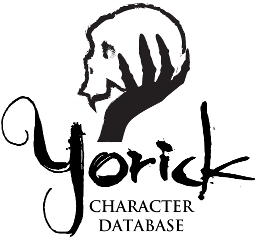
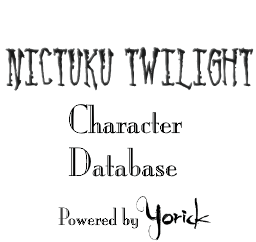
Switch a bunch of references over to Niktuku Twilight

Changed region(s): [[0.0, 0.0, 1.0, 1.0], [0.1562, 0.781, 0.2188, 0.9256]]

diff --git a/public/index.html b/public/index.html
@@ -2,9 +2,9 @@
 <html class="no-js ui-mobile-rendering" lang="en">
 <head>
     <title>Yorick</title>
-    <meta name="description" content="A Character Database for Underground Theater">
-    <meta property="og:title" content="Yorick">
-    <meta property="og:image" content="https://patron.undergroundtheater.org/yorick_max.png">
+    <meta name="description" content="A Character Database for Niktuku Twilight">
+    <meta property="og:title" content="Niktuku Twilight">
+    <meta property="og:image" content="yorick_max.png">
     <meta name="viewport" content="width=device-width, initial-scale=1">
     <!-- <link rel="stylesheet" href="css/themes/default/jquery.mobile.css"> -->
     <link rel="stylesheet" href="css/themes/default/jquery.mobile-1.4.5.min.css">
@@ -90,14 +90,14 @@
             <a href="https://github.com/gnu-lorien/yorick">Yorick</a> is a troupe and character management application designed to support role-playing game systems published by <a href="http://www.bynightstudios.com/">By Night Studios</a>.
         </p>
         <p>
-            This website is primarily maintained for usage by the non-profit <a href="http://www.undergroundtheater.org/">Underground Theater</a>.
+            This website is primarily maintained for usage by the non-profit <a href="http://www.aftertwilight.org/">Niktuku Twilight</a>.
         </p>
         <p>
             <a href="https://github.com/gnu-lorien/yorick">Yorick</a> is an open-source project that anybody may contribute to. It is licensed under the AGPLv3.
         </p>
         <p>
             Real-time analytics and error reported is provided by <a href="https://trackjs.com/">Track JS</a>.
-        </p>  
+        </p>
         <p>
             Some icons are provided by <a href="http://game-icons.net/">Game-icons.net</a> under the terms of the <a href="https://creativecommons.org/licenses/by/3.0/">CC BY 3.0</a> license.
         </p>
@@ -753,7 +753,7 @@
     <div class="login">
         <img class="max-yorick-sizing" src="yorick_256.png"/>
         <p>
-        Welcome to Yorick, a character management system for <a href="http://www.undergroundtheater.org/">Underground Theater</a>.
+        Welcome to Yorick, a character management system for <a href="http://www.aftertwilight.org/">Niktuku Twilight</a>.
         </p>
         <form class="login-form">
             <h2>Log In</h2>

diff --git a/public/scripts/app/templates/privacy-policy.html b/public/scripts/app/templates/privacy-policy.html
@@ -1,6 +1,6 @@
 <h1><a id="Privacy_Notice_0"></a>Privacy Notice</h1>
 <p>Effective Date:  December 22, 2017</p>
-<p>This privacy notice discloses the privacy practices for Underground Theater, Inc and our website; <a href="https://patron.undergroundtheater.org/">https://patron.undergroundtheater.org/</a>. This privacy notice applies solely to information collected by this website, except where stated otherwise. It will notify you of the following:</p>
+<p>This privacy notice discloses the privacy practices for Niktuku Twilight and our website; <a href="https://patron.aftertwilight.org/">https://patron.aftertwilight.org/</a>. This privacy notice applies solely to information collected by this website, except where stated otherwise. It will notify you of the following:</p>
 <p>What information we collect;<br>
 With whom it is shared;<br>
 How it can be corrected;<br>
@@ -29,4 +29,4 @@ Express any concern you have about our use of your data</p>
 <p>From time-to-time our site requests information via surveys or contests. Participation in these surveys or contests is completely voluntary and you may choose whether or not to participate and therefore disclose this information. Information requested may include contact information (such as name and shipping address), and demographic information (such as zip code, age level). Contact information will be used to notify the winners and award prizes. Survey information will be used for purposes of monitoring or improving the use and satisfaction of this site.</p>
 <h2><a id="Notification_of_Changes_50"></a>Notification of Changes</h2>
 <p>You will be notified using the registered email address for any substantial changes to this document.</p>
-<p>If you feel that we are not abiding by this privacy policy, you should contact us immediately via email at <a href="mailto:bod@undergroundtheater.org">bod@undergroundtheater.org</a>.</p>
+<p>If you feel that we are not abiding by this privacy policy, you should contact us immediately via email at <a href="mailto:nicktuku.twilight@gmail.com">nicktuku.twilight@gmail.com</a>.</p>

diff --git a/public/scripts/app/forms/UserForm.js b/public/scripts/app/forms/UserForm.js
@@ -8,9 +8,9 @@ define([
             {name: "realname", label: "Real Name", control: "input"},
             {name: "email", label: "Email", control: "input", type: "email"},
             {name: "username", label: "User Name", control: "input"},
-            {name: "massmailauthorization", label: "I authorize Underground Theater to contact me using this email address", control: "checkbox"},
+            {name: "massmailauthorization", label: "I authorize Niktuku Twilight to contact me using this email address", control: "checkbox"},
             {name: "acceptedtos",
-             label: "Participation in Underground Theater requires agreeing to the rules and regulations set forth by the organization and its board of directors. I agree to adhere to the rules and regulations of Underground Theater and its board of directors. I also acknowledge that I have read and agree to the rules and procedures set forth in the Patron Handbook.",
+             label: "Participation in Niktuku Twilight requires agreeing to the rules and regulations set forth by the organization and its board of directors. I agree to adhere to the rules and regulations of Niktuku Twilight.",
              control: "checkbox"},
         ]
     });

diff --git a/public/scripts/app/templates/referendum/options.html b/public/scripts/app/templates/referendum/options.html
@@ -1,5 +1,5 @@
 <% if (!patronagestatus) { %>
-<p>You are not currently a Patron of Underground Theater so you are not eligible to vote.</p>
+<p>You are not currently a Patron so you are not eligible to vote.</p>
 <% } else if (ballot_message || ballot) { %>
 <% if (ballot_message) { %>
 <p><%= ballot_message.message %></p>
